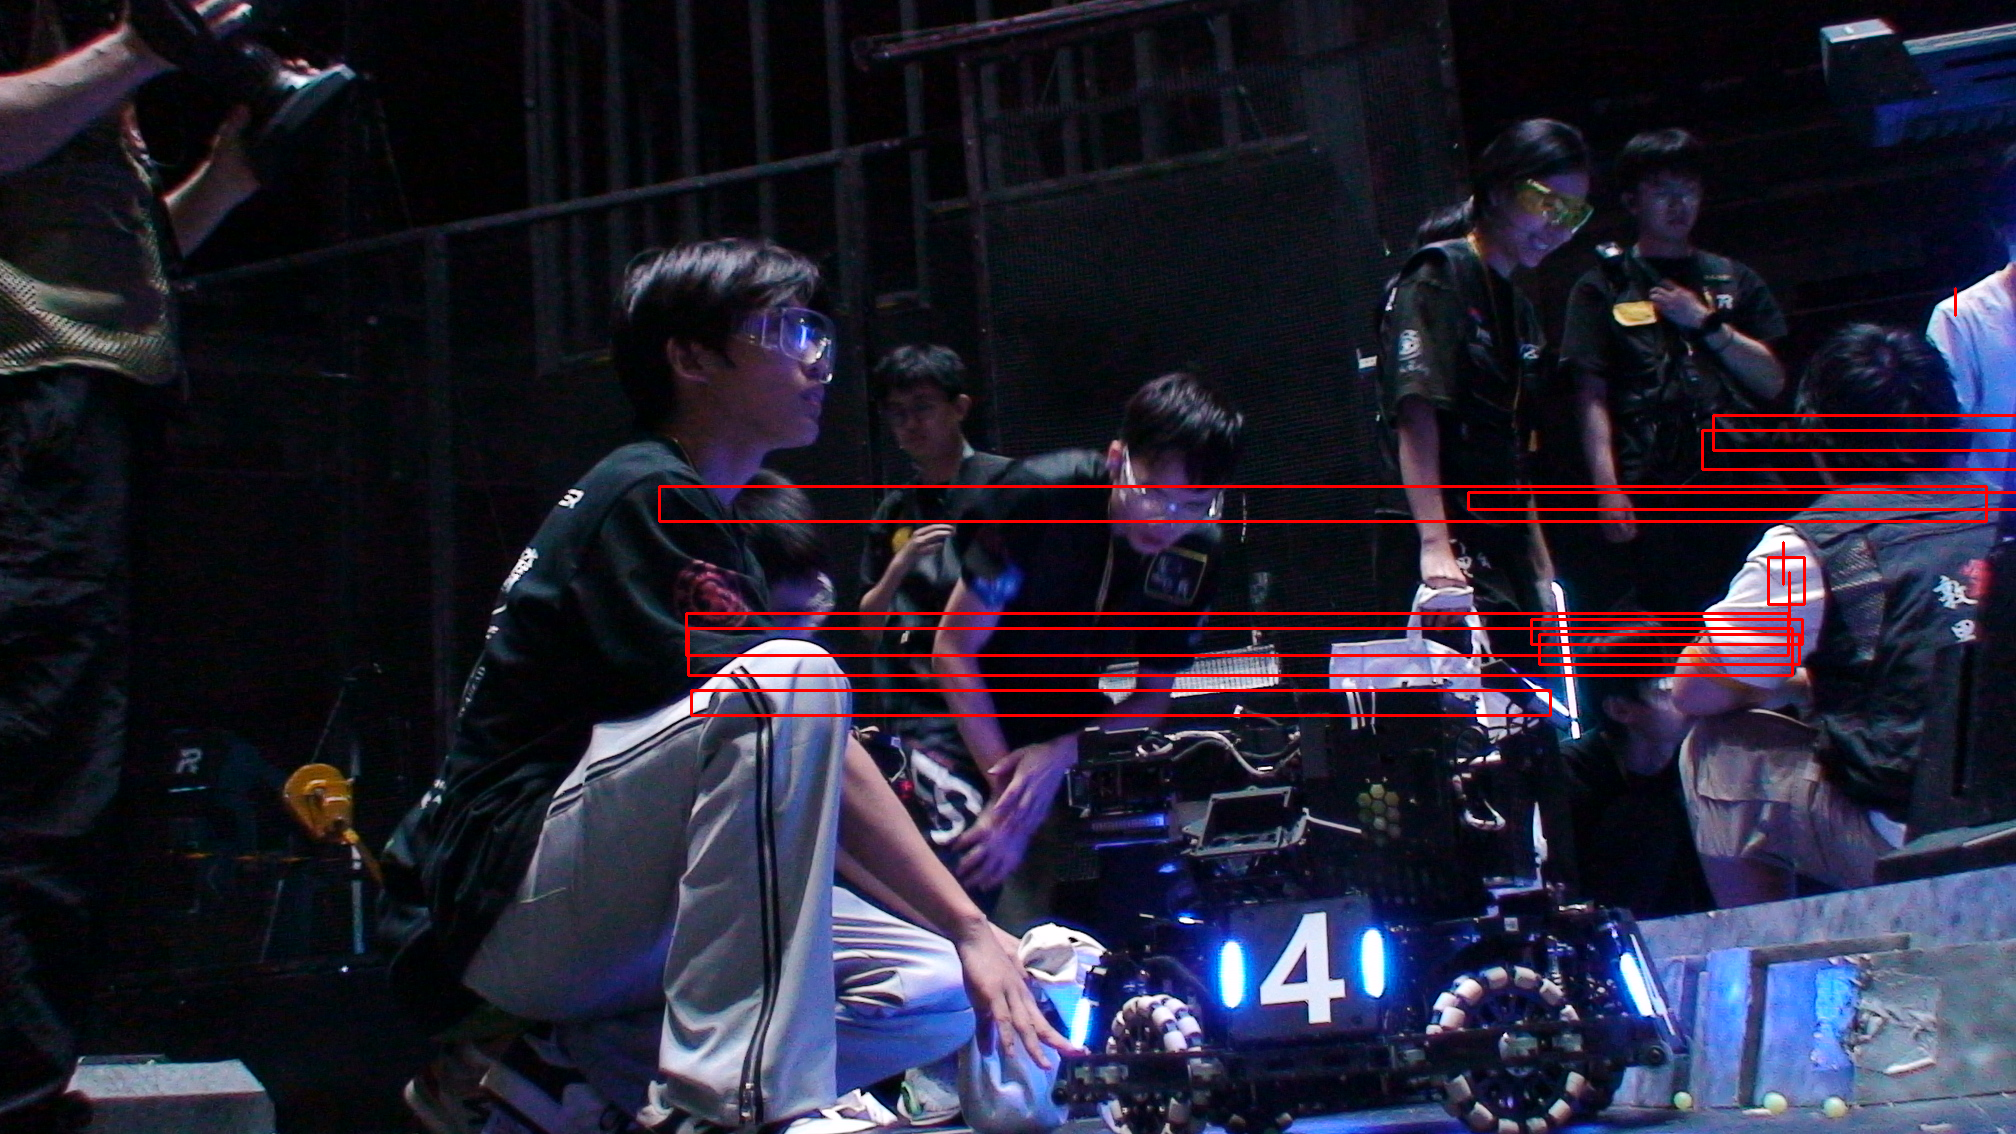
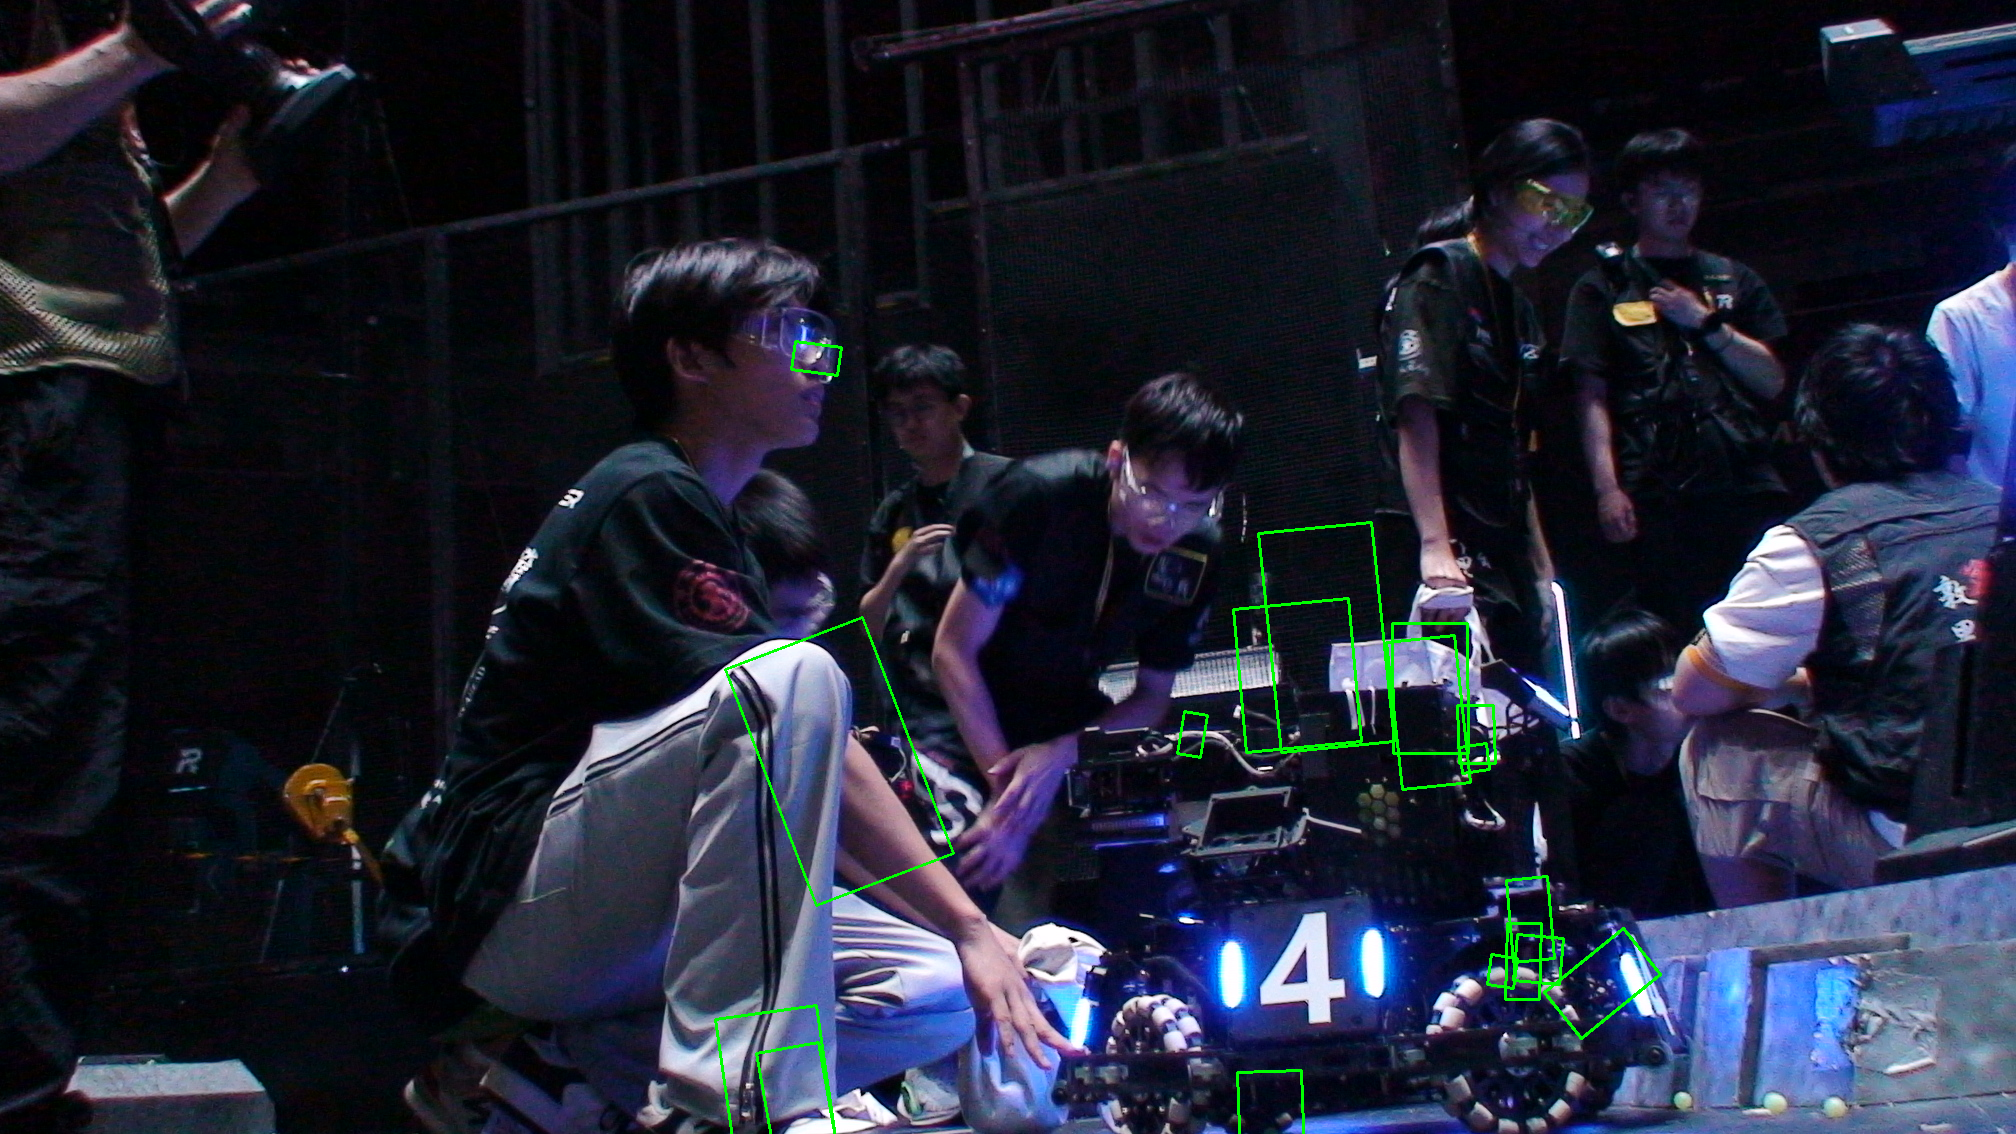
edition 2

diff --git a/XJTU-RMV-Task02/src/main.cpp b/XJTU-RMV-Task02/src/main.cpp
@@ -1,5 +1,6 @@
 #include <cmath>
 #include <cstddef>
+#include <cstdlib>
 #include <iostream>
 #include <opencv2/core.hpp>
 #include <opencv2/core/mat.hpp>
@@ -106,119 +107,84 @@ Mat cropTopLeftQuarter(const Mat& src) {
     return src(roi).clone();
 }
 
-// 返回以长边为基准的角度
-static float normalizedAngle(const RotatedRect& r) {
-    float w = r.size.width, h = r.size.height, ang = r.angle;
-    if (w < h) ang += 90.0f;
-    if (ang >= 180.0f) ang -= 180.0f;
-    return ang;
-}
-
 // 检测装甲板
-void detectLightBar(const Mat& src, Mat &dst) {
-    dst = src.clone();
+void detectLightBar(const Mat& src, bool is_blue = true) {
 
-    // hsv转换
-    Mat hsv;
-    cvtColor(src, hsv, COLOR_BGR2HSV);
-
-    // 蓝色阈值
-    Scalar blueLow(100, 120, 100);
-    Scalar blueHigh(140, 255, 255);
-    Mat mask_blue;
-    inRange(hsv, blueLow, blueHigh, mask_blue);
-
-    // 白色阈值
-    Scalar whiteLow(0, 0, 240);
-    Scalar whiteHigh(150, 30, 255);
-    Mat mask_white;
-    inRange(hsv, whiteLow, whiteHigh, mask_white);
-
-    // Mat mask = mask_blue | mask_white;
-
-    Mat mask = mask_white;
-
-    // 亮度掩码
-    vector<Mat> hsvCh;
-    split(hsv, hsvCh);
-    Mat value = hsvCh[2];
-    Mat brightMask;
-    double brightThresh = 250;
-    threshold(value, brightMask, brightThresh, 255, THRESH_BINARY);
-    mask = mask & brightMask;
-
-    imwrite("output/img2_beforemask.png", mask);
-
-    // 中值滤波
-    medianBlur(mask, mask, 5);
-
-    // 形态学去噪
-    Mat kernel = getStructuringElement(MORPH_RECT, Size(3, 3));
-    morphologyEx(mask, mask, MORPH_OPEN, kernel);
-    morphologyEx(mask, mask, MORPH_CLOSE, kernel);
-
-    // 保存掩码
-    imwrite("output/img2_mask.png", mask);
-
-    // 找轮廓+筛选灯条
+    // 变量集中定义
+    Mat channels[3], binary, Gaussian, dilatee;
+    Mat element = getStructuringElement(MORPH_RECT, Size(5, 5));
+    Rect boundRect;
+    RotatedRect box;
     vector<vector<Point>> contours;
-    findContours(mask, contours, RETR_EXTERNAL, CHAIN_APPROX_SIMPLE);
+    vector<Vec4i> hierarchy;
+    vector<Point2f> boxPts(4);
 
-    vector<RotatedRect> lightBars;
-    vector<float> angles;
-    vector<float> areas;
-    vector<float> ratios;
+    // 图像预处理
+    split(src, channels);   // 分离通道
+    threshold(channels[0], binary, 220, 255, 0); // 二值化
+    GaussianBlur(binary, Gaussian, Size(5, 5), 0); // 高斯滤波
+    dilate(Gaussian, dilatee, element); // 膨胀
+    findContours(dilatee, contours, hierarchy, RETR_EXTERNAL, CHAIN_APPROX_SIMPLE); // 轮廓检测
+    
+    // 筛选灯条
+    vector<float> widths, lengths, angles, areas;
+    vector<Point2f> centers;
 
-    for (auto& cont : contours) {
-        double area = contourArea(cont);
-        if (area < 100 || area > 400) continue; // 面积筛选（可调）
+    for (int i = 0; i < contours.size(); i++) {
+        // if (contours[i].empty()) continue;
+        
+        double area = contourArea(contours[i]);
+        
+        // 面积筛选
+        if (area < 5 || contours[i].size() < 5) continue;
 
-        RotatedRect r = minAreaRect(cont);
-        float w = r.size.width, h = r.size.height;
-        float longSide = max(w, h), shortSide = min(w, h);
-        if (shortSide < 1.0) continue; // 去掉过窄
+        // 椭圆拟合
+        RotatedRect Light_Rec = fitEllipse(contours[i]);
 
-        float ratio = longSide / shortSide;
-        if (ratio < 2.0 || ratio > 20.0) continue;  // 长宽比筛选（可调）
-        lightBars.push_back(r);
-
-        // 角度规范化
-        float angle = normalizedAngle(r);
-
-        lightBars.push_back(r);
-        angles.push_back(angle);
-        areas.push_back((float)area);
-        ratios.push_back(ratio);
+        // 长宽比和面积比筛选
+        if (Light_Rec.size.width / Light_Rec.size.height > 4) continue;
+        
+        widths.push_back(Light_Rec.size.width);
+        lengths.push_back(Light_Rec.size.height);
+        angles.push_back(Light_Rec.angle);
+        areas.push_back(area);
+        centers.push_back(Light_Rec.center);
     }
 
-    // 配对灯条+框选装甲板
-    for (size_t i = 0; i < lightBars.size(); i++) {
-        for (size_t j = i + 1; j < lightBars.size(); j++) {
-            // 角度接近
-            if (fabs(angles[i] - angles[j]) > 10.0) continue;
+    // 灯条两两匹配
+    for (size_t i = 0; i < centers.size(); i++) {
+        for (size_t j = i + 1; j < centers.size(); j++) {
+            float angleGap_ = abs(angles[i] - angles[j]);
+            float LenGap_ratio = abs(lengths[i] - lengths[j]) / max(lengths[i], lengths[j]);
+            float dis = sqrt(pow(centers[i].x - centers[j].x, 2) + pow(centers[i].y - centers[j].y, 2));
+            float meanLen = (lengths[i] + lengths[j]) / 2;
+            float lengap_ratio = (lengths[i] - lengths[j]) / meanLen;
+            float yGap = abs(centers[i].y - centers[j].y);
+            float yGap_ratio = yGap / meanLen;
+            float xGap = abs(centers[i].x - centers[j].x);
+            float xGap_ratio = xGap / meanLen;
+            float ratio = dis / meanLen;
 
-            // 长宽比接近
-            if (fabs(ratios[i] - ratios[j]) > 0.5) continue;
+            // 匹配条件
+            if (angleGap_ > 15 || LenGap_ratio > 1.0 || lengap_ratio > 0.8 || yGap_ratio > 1.5 || xGap_ratio > 2.2 || xGap_ratio < 0.8 || ratio > 3 || ratio < 0.8) {
+                continue;
+            }
 
-            // 面积接近
-            if (fabs(areas[i] - areas[j]) > 50) continue;
-
-            // 生成装甲板矩形
-            Point2f center = (lightBars[i].center + lightBars[j].center) * 0.5f;
-            float width = norm(lightBars[i].center - lightBars[j].center);
-            float height = (lightBars[i].size.height + lightBars[j].size.height) * 0.5f;
-            float angle = (angles[i] + angles[j]) * 0.5f;
-
-            RotatedRect armorRect(center, Size2f(width, height), angle);
-
-            // 画出装甲板
-            Point2f pts[4];
-            armorRect.points(pts);
+            // 绘制匹配矩形
+            Point center = Point((centers[i].x + centers[j].x) / 2, (centers[i].y + centers[j].y) / 2);
+            RotatedRect rect = RotatedRect(center, Size(dis, meanLen), (angles[i] + angles[j]) / 2);
+            Point2f vertices[4];
+            rect.points(vertices);
             for (int k = 0; k < 4; k++) {
-                line(dst, pts[k], pts[(k+1)%4], Scalar(0, 0, 255), 2);
+                line(src, vertices[k], vertices[(k + 1) % 4], Scalar(0, 255, 0), 2);
             }
         }
     }
+
+    imwrite("output/img2_result.png", src);
+
+    cout << "Detected " << centers.size() << " light bars." << endl;
+
 }
 
 // ----- 主函数部分 -----
@@ -269,11 +235,10 @@ int main() {
         cerr << "Error: Could not open or find the image2!" << endl;
         return -1;
     }
+    
+    bool is_blue = true;
+    detectLightBar(img2, is_blue);
 
-    Mat result2;
-    detectLightBar(img2, result2);
-
-    imwrite("output/img2_result.png", result2);
     cout << "TARGET ACQUIRED!" << endl;
 
     return 0;
